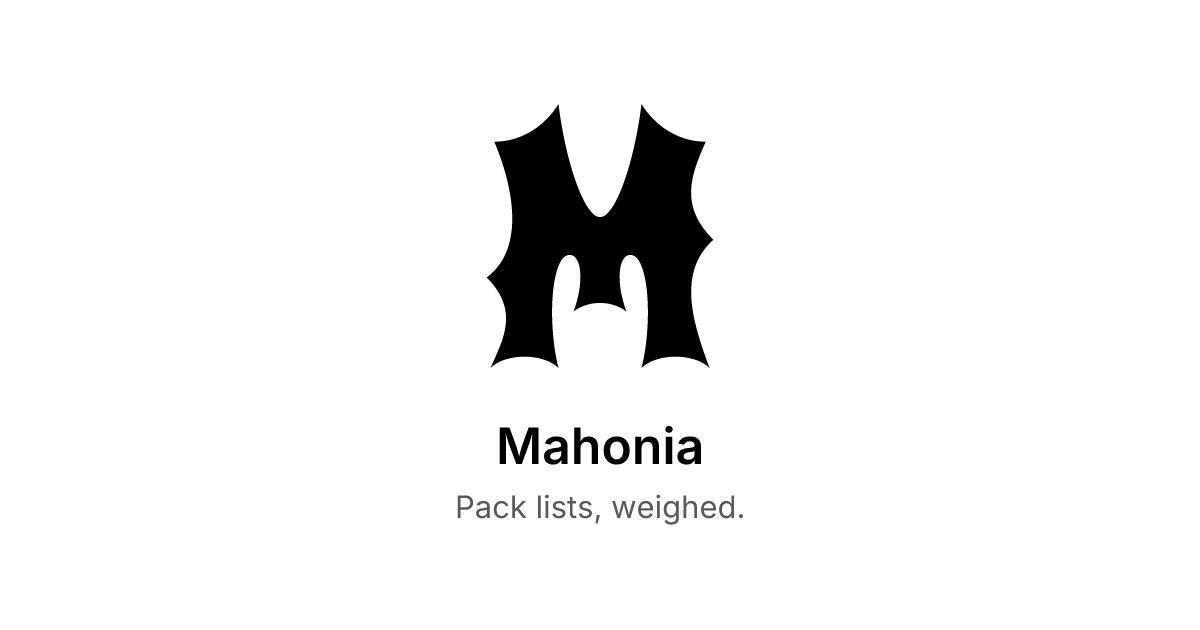
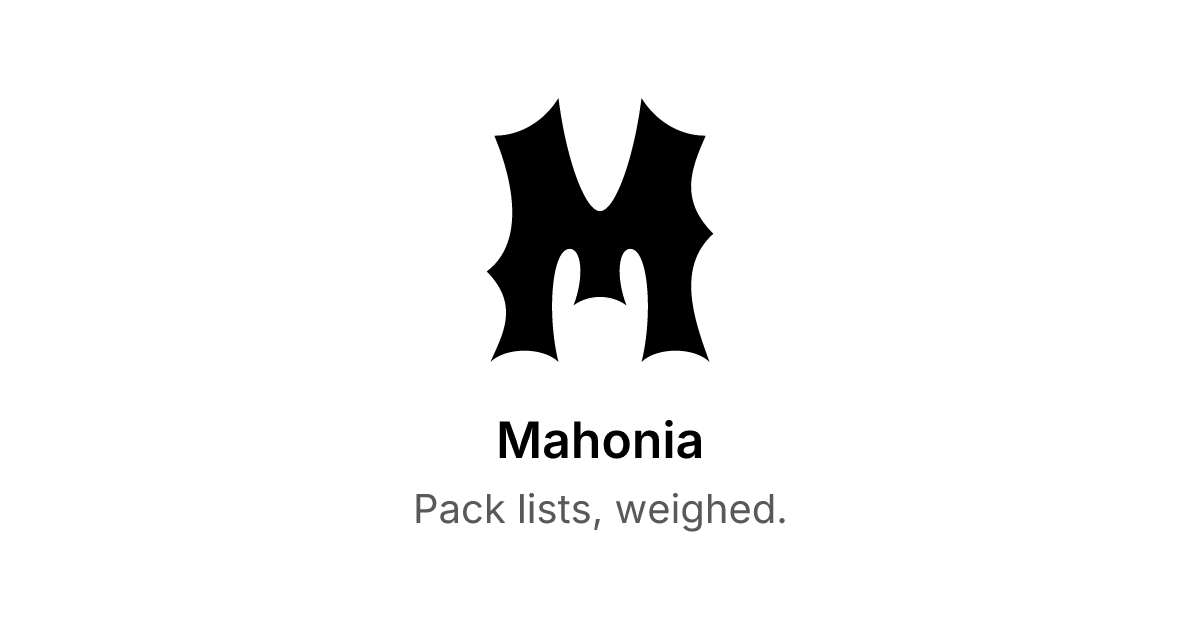
feat: the list's name takes the wordmark's corner, and the tagline steps up

diff --git a/server/utils/ogCard.ts b/server/utils/ogCard.ts
@@ -81,10 +81,6 @@ const el = (style: Record<string, unknown>, children?: unknown): Vnode => ({
 });
 
 function cardVnode(m: OgCardModel): Vnode {
-  // Three steps by length, not measurement: satori wraps and (past two lines)
-  // ellipsizes for us, so the size only has to keep short names monumental and
-  // long ones from eating the figure's room.
-  const titleSize = m.title.length <= 18 ? 76 : m.title.length <= 44 ? 60 : 48;
   return el(
     {
       flexDirection: "column",
@@ -96,29 +92,31 @@ function cardVnode(m: OgCardModel): Vnode {
       fontFamily: "Inter",
     },
     [
-      // the top strip: the site bar's brand on the left, same treatment
-      // (.t-label .brand — sentence case, 600), and the favicon's M mark holding
-      // the opposite corner. flex-start so the mark hangs from the top edge the
-      // way the wordmark sits on it, rather than centering against 30px text.
-      el({ flexDirection: "row", justifyContent: "space-between", alignItems: "flex-start" }, [
-        el({ fontWeight: 600, fontSize: 34 }, "Mahonia"),
+      // The top strip: the LIST'S NAME where a wordmark would sit, and the
+      // favicon's M holding the opposite corner — the mark alone carries the
+      // brand here (the unfurl's site_name/domain line already says Mahonia,
+      // and the site card spells it out). One fixed size now that the name is
+      // a label rather than the hero: at 40px the line fits ~45 characters,
+      // and satori's block + lineClamp wraps then ellipsizes past two lines.
+      // flex-start so both hang from the top edge.
+      el({ flexDirection: "row", alignItems: "flex-start" }, [
+        el(
+          {
+            display: "block",
+            lineClamp: 2,
+            flexGrow: 1,
+            marginRight: 48,
+            fontFamily: "InterDisplay",
+            fontWeight: 700,
+            fontSize: 40,
+            lineHeight: 1.15,
+            letterSpacing: TRACK_TIGHT,
+            wordBreak: "break-word",
+          },
+          m.title,
+        ),
         { type: "img", props: { src: MARK_SRC, width: MARK_SIZE, height: MARK_SIZE }, key: null },
       ]),
-      el(
-        {
-          // block + lineClamp is satori's text-truncation mode: two lines, then "…"
-          display: "block",
-          lineClamp: 2,
-          marginTop: 40,
-          fontFamily: "InterDisplay",
-          fontWeight: 700,
-          fontSize: titleSize,
-          lineHeight: 1.1,
-          letterSpacing: TRACK_TIGHT,
-          wordBreak: "break-word",
-        },
-        m.title,
-      ),
       el({ flexGrow: 1 }),
       // the big figure — number dominant, unit smaller and muted ON ITS BASELINE,
       // exactly TotalsBar's totals__big + totals__unit pairing. Bottom-aligned
@@ -186,7 +184,7 @@ function siteCardVnode(): Vnode {
     [
       { type: "img", props: { src: MARK_SRC, width: SITE_MARK_SIZE, height: SITE_MARK_SIZE }, key: null },
       el({ marginTop: 48, fontWeight: 600, fontSize: 50 }, "Mahonia"),
-      el({ marginTop: 12, fontSize: 31, color: INK_2 }, "Pack lists, weighed."),
+      el({ marginTop: 14, fontSize: 40, color: INK_2 }, "Pack lists, weighed."),
     ],
   );
 }
